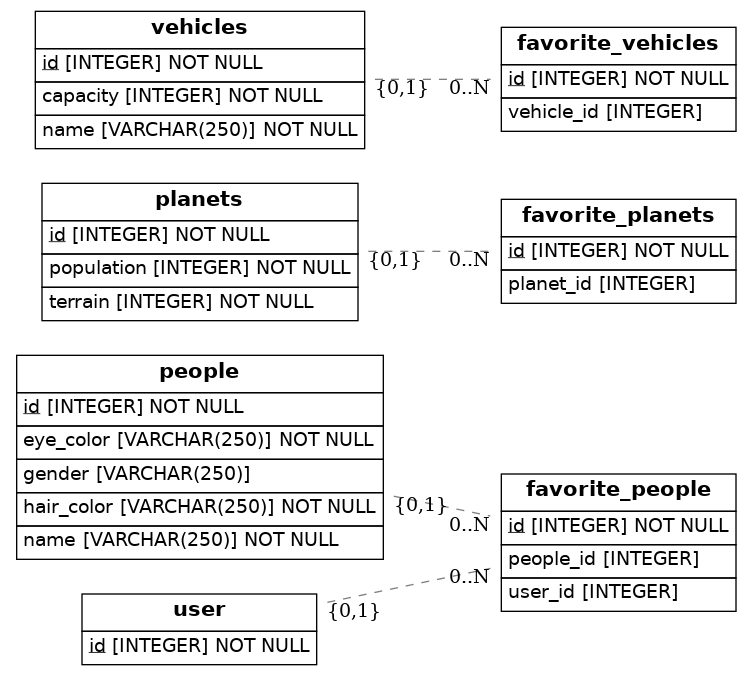
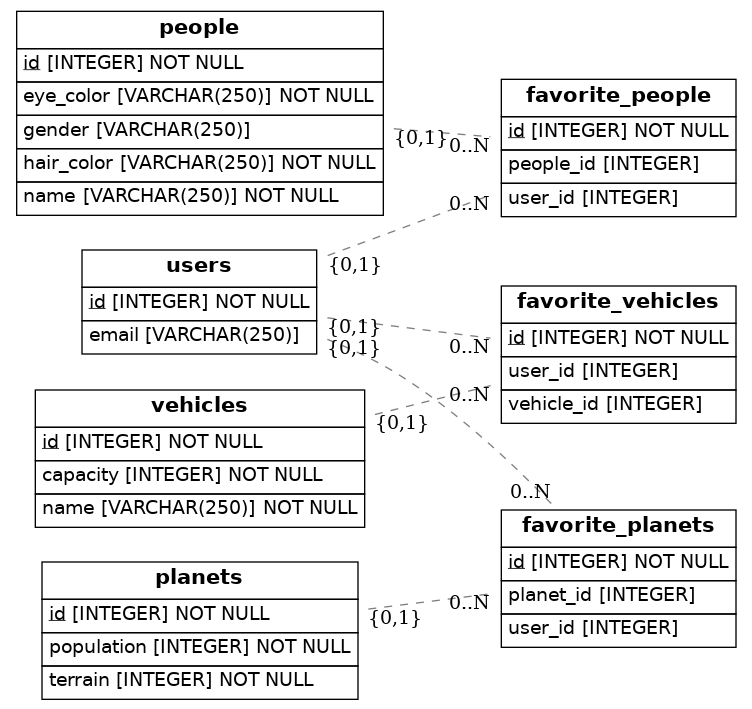
First version

Changed region(s): [[0.0, 0.0, 0.9787, 0.9956], [0.5811, 0.0933, 0.6423, 0.1556], [0.9481, 0.5911, 0.9787, 0.6222]]

diff --git a/src/models.py b/src/models.py
@@ -7,6 +7,18 @@ from eralchemy2 import render_er
 
 Base = declarative_base()
 
+class Users(Base):
+    __tablename__ = 'users'
+    id = Column(Integer, primary_key=True)
+    email = Column(String(250), nullable=True, unique=True)
+
+    fav_vehicules = relationship('Vehicles', secondary='favorite_vehicles',
+                                 lazy='subquery', backref='users')
+    fav_people = relationship('People', secondary='favorite_people',
+                                 lazy='subquery', backref='users')
+    fav_planets = relationship('Planets', secondary='favorite_planets',
+                                 lazy='subquery', backref='users')
+
 class People(Base):
     __tablename__ = 'people'
     id = Column(Integer, primary_key=True)
@@ -15,41 +27,49 @@ class People(Base):
     hair_color = Column(String(250), nullable=False)
     eye_color = Column(String(250), nullable=False)
 
+    users = relationship('Users', secondary='favorite_people',
+                          lazy='subquery', backref='fav_people')
+
 class Planets(Base):
     __tablename__ = 'planets'
     id = Column(Integer, primary_key=True)
     population = Column(Integer, nullable =False)
     terrain = Column(Integer, nullable=False)
-    # post_code = Column(String(250), nullable=False)
-    # person_id = Column(Integer, ForeignKey('person.id'))
-    # person = relationship(Person)
 
+    users = relationship('Users', secondary='favorite_planets',
+                          lazy='subquery', backref='fav_planets')
+    
 class Vehicles(Base):
     __tablename__ = 'vehicles'
     id = Column(Integer, primary_key=True)
     name = Column(String(250), nullable=False)
     capacity = Column(Integer, nullable=False)
 
-
-class User(Base):
-    __tablename__ = 'user'
-    id = Column(Integer, primary_key=True)
+    users = relationship('Users', secondary='favorite_vehicles',
+                          lazy='subquery', backref='fav_vehicles')
+    
 
 class FavoritePeople(Base):
     __tablename__ = 'favorite_people'
     id = Column(Integer, primary_key=True)
-    user_id = Column(Integer, ForeignKey('user.id'))
+    user_id = Column(Integer, ForeignKey('users.id'))
     people_id = Column(Integer, ForeignKey('people.id'))
+
 
 class FavoriteVehicles(Base):
     __tablename__ = 'favorite_vehicles'
     id = Column (Integer, primary_key=True)
     vehicle_id = Column(Integer, ForeignKey('vehicles.id'))
+    user_id = Column(Integer, ForeignKey('users.id'))
+
+    
+    
 
 class FavoritePlanets(Base):
     __tablename__ = 'favorite_planets'
     id = Column(Integer, primary_key=True)
     planet_id= Column(Integer, ForeignKey('planets.id'))
+    user_id = Column(Integer, ForeignKey('users.id'))
 
 
     def to_dict(self):
